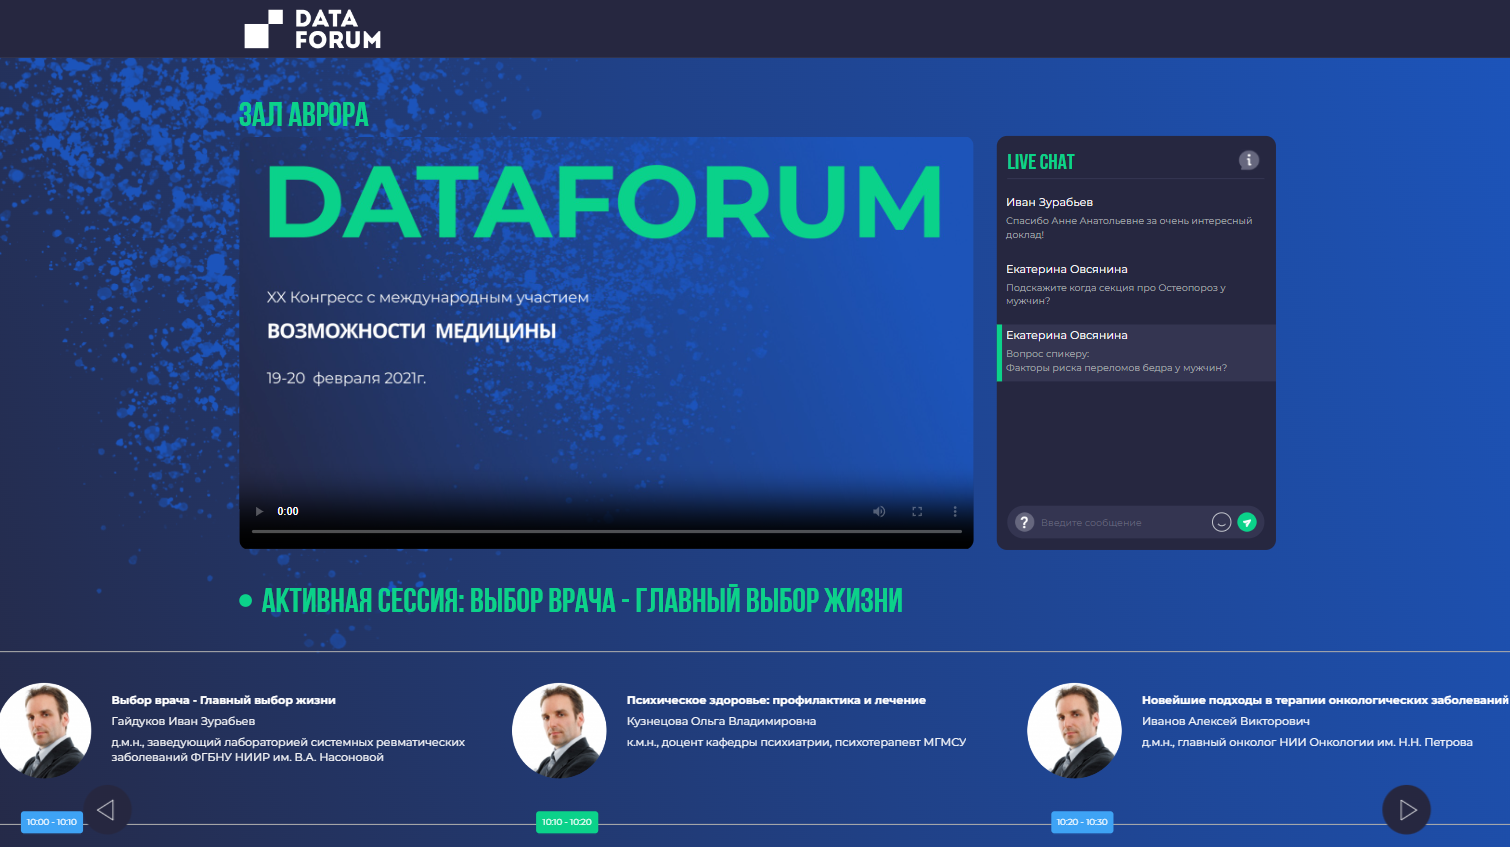
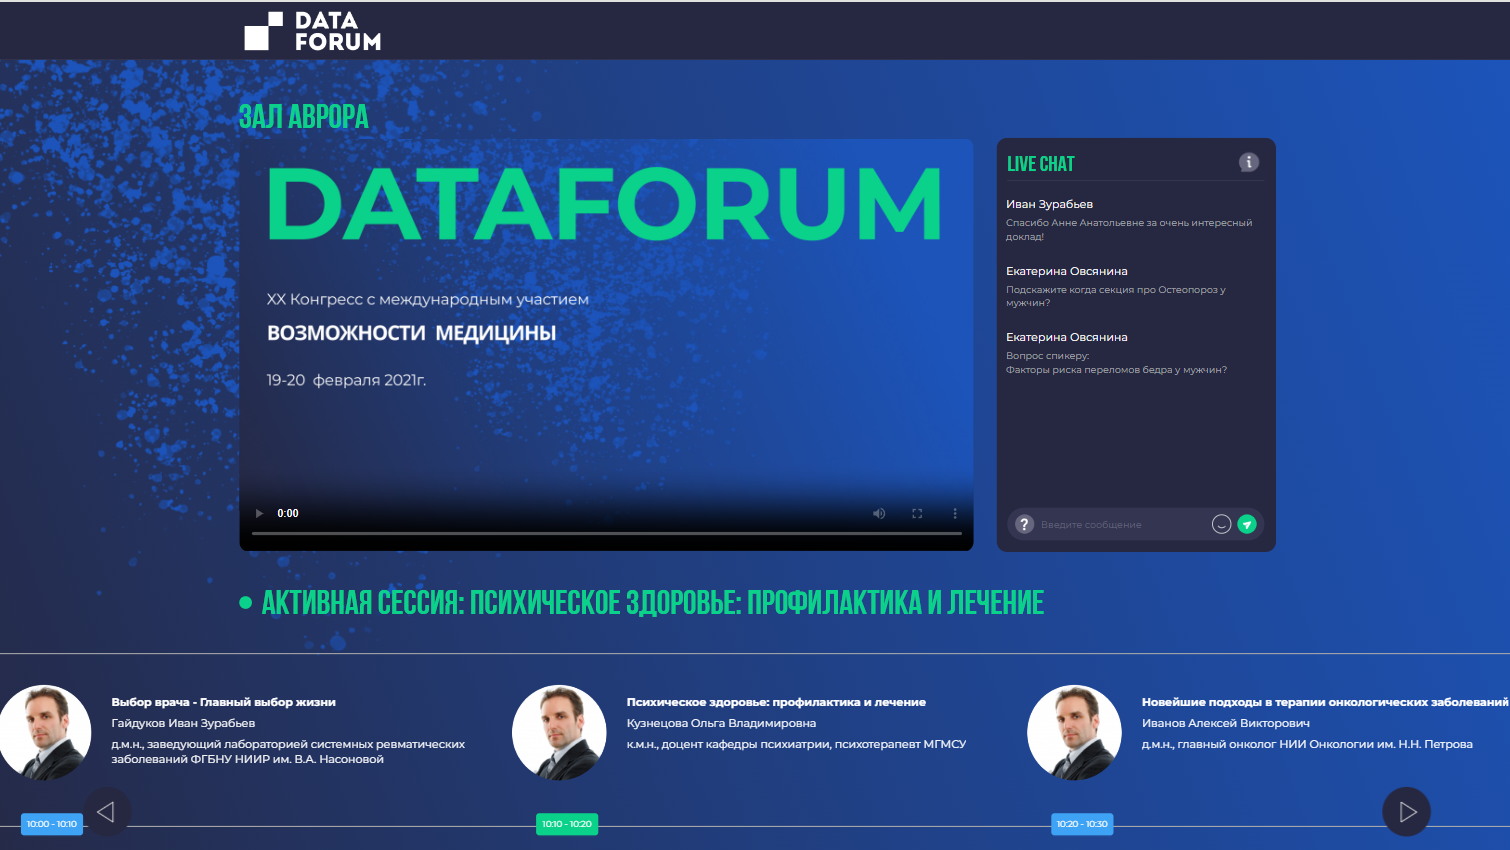
fix session title

diff --git a/src/components/Main/index.tsx b/src/components/Main/index.tsx
@@ -34,7 +34,7 @@ export function Main() {
                             ? sessionStatus[roomStatus] +
                                   " " +
                                   initData.schedule.find(
-                                      (item) => item.is_active
+                                      (item) => item.id === currentEventID
                                   )?.item.title || ""
                             : sessionStatus[roomStatus]}
                     </h2>

diff --git a/src/store/index.ts b/src/store/index.ts
@@ -43,8 +43,8 @@ export const useRoomStore = create<State & Action>((set) => ({
                 ),
             });
             set({
-                currentEventID: data.schedule.find((item) => item.is_active)
-                    ?.id,
+                currentEventID:
+                    data.schedule.find((item) => item.is_active)?.id || null,
             });
         } else {
             set({ isError: true });
